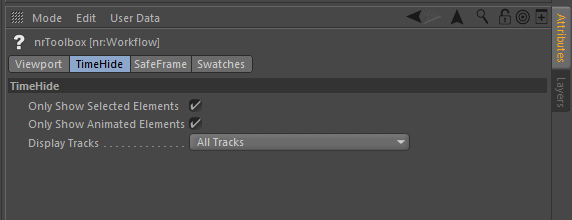
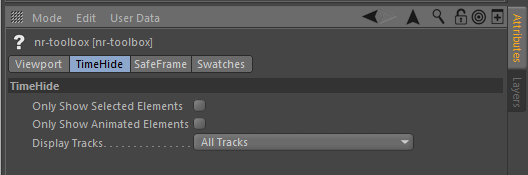
Update TimeHide docs

diff --git a/docs/timehide.md b/docs/timehide.md
@@ -1,12 +1,15 @@
 # TimeHide
 
-The **TimeHide** feature was previously available as a separate plugin on the
+**TimeHide** was originally available as a separate plugin on the
 [niklasrosenstein.com] online store and is now integrated into **NR Workflow
 Tools**. It provides an enhanced workflow for animators that regularly deal
 with large amounts of animated objects, removing the clutter from the Cinema
 4D **Timeline** and showing you only what you want to focus on.
 
 [niklasrosenstein.com]: https://niklasrosenstein.com
+
+In the *nr-toolbox*, TimeHide can no longer be found in the Project Settings
+but instead in a separate Attribute Manager Mode called "nr-toolbox".
 
 ![](timehide-params.png)
 
